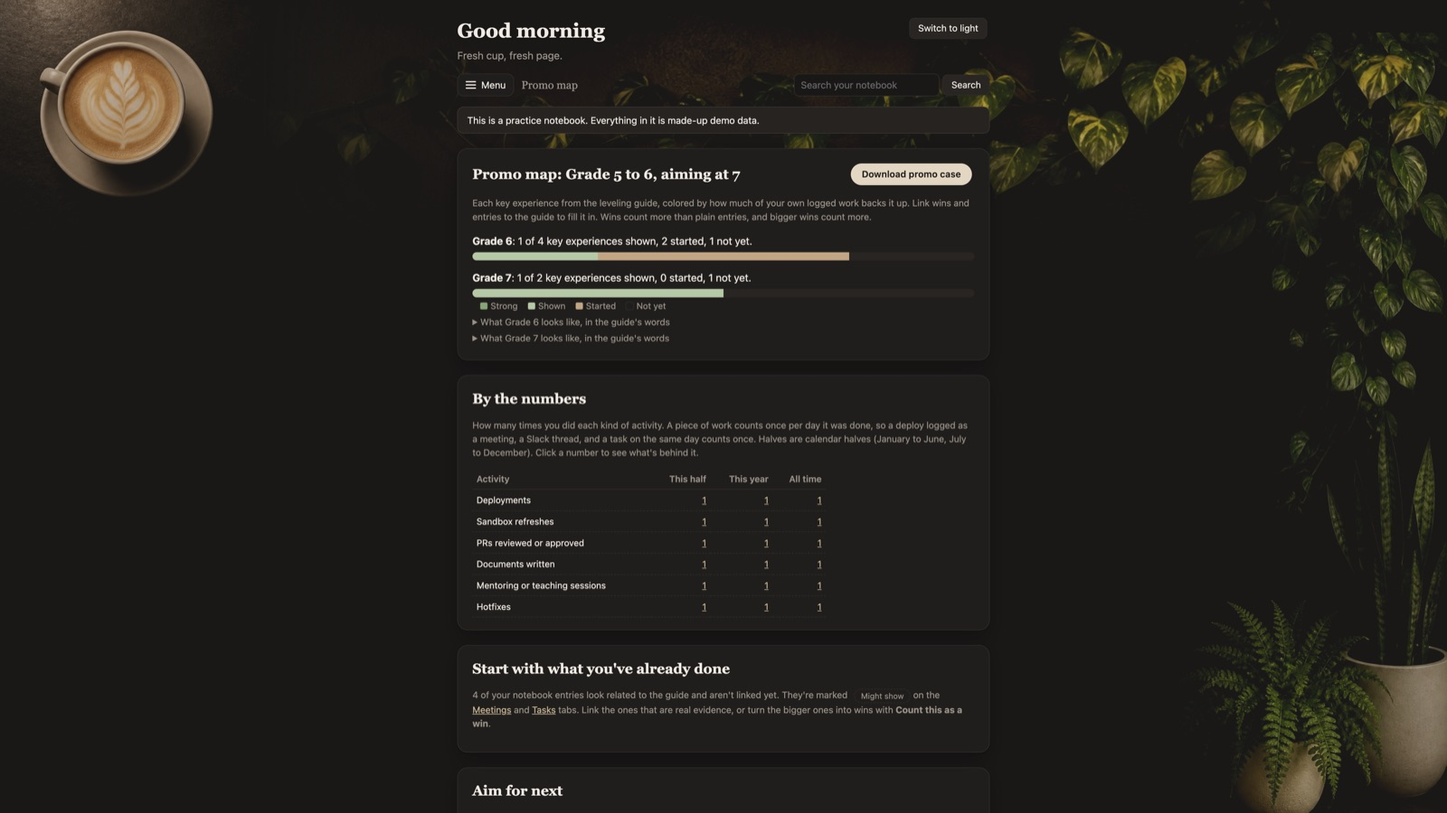
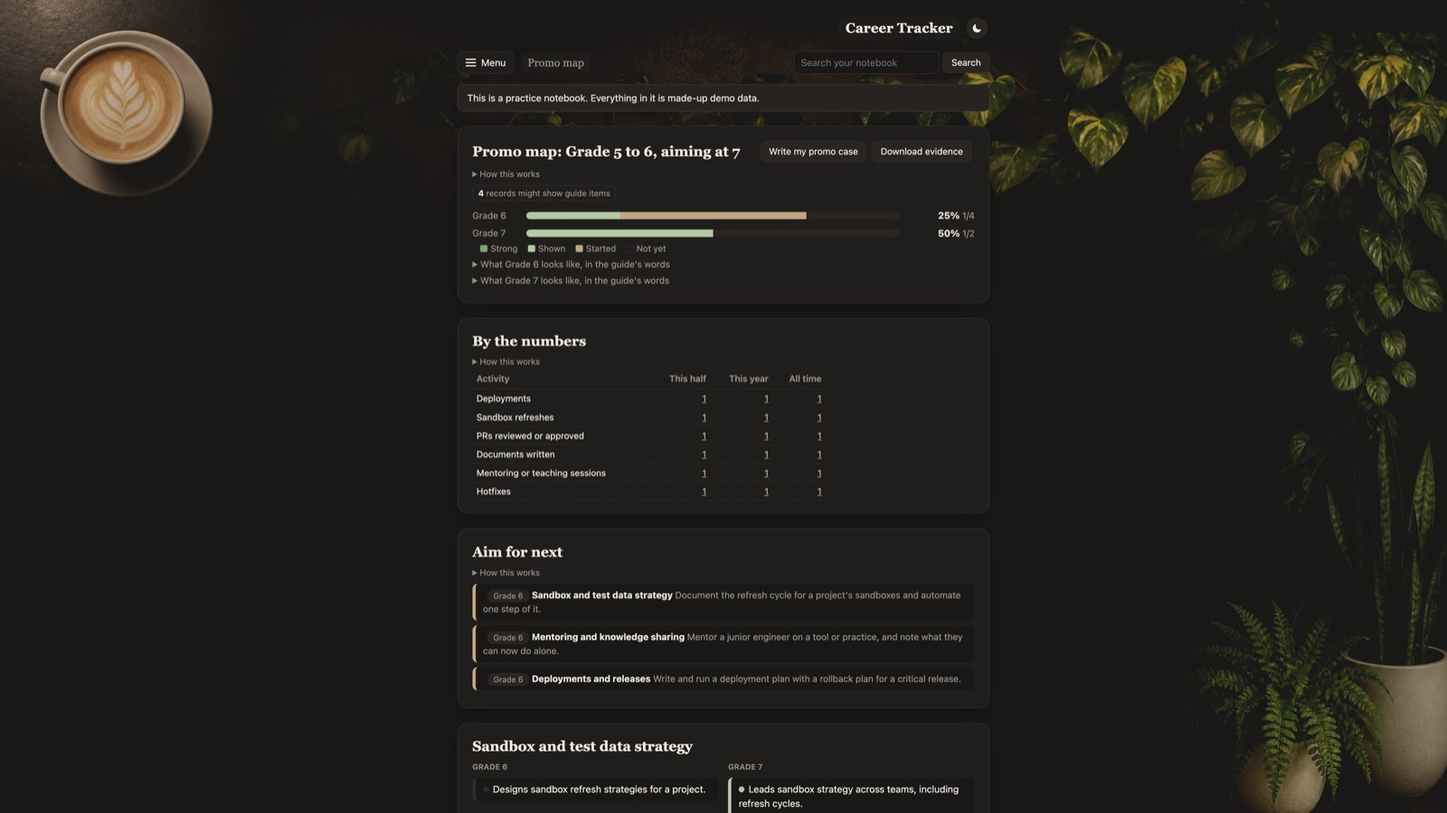
Sleek pass S5: compact Promo map and promo case, light-mode header, new README screenshots
Promo map: Home-style readiness bars, chips for unchecked AI picks and might-show records, one-line Aim for next, status
dots instead of status lines, tighter tables. Promo case: draft chips, Rewrite beside each heading, Sources folded (a
citation opens it). The app name and page label get a soft backdrop so the light-mode vine doesn't hide them. README
and INSTRUCTIONS say Career Tracker; screenshots retaken from the practice notebook. Plans the screenshot kudos import.

diff --git a/src/careeros/web/templates/promo.html b/src/careeros/web/templates/promo.html
@@ -16,19 +16,24 @@ uv run careeros guide import "guides/Leveling Guides - DevOps.csv"</pre>
 </section>
 {% else %}
 <section class="card">
-  <div class="row" style="justify-content:space-between">
-    <h2>Promo map: Grade {{ pm.current }} to {{ pm.grades[0] }}, aiming at {{ pm.grades[-1] }}</h2>
-    <div class="row"><a class="chip" href="/promo/case" style="font-size:.9rem;padding:.3rem .9rem">Write my promo case</a>
-      <form method="get" action="/promo/export"><button>Download evidence (Markdown)</button></form></div>
+  <div class="qhead"><h2>Promo map: Grade {{ pm.current }} to {{ pm.grades[0] }}, aiming at {{ pm.grades[-1] }}</h2>
+    <div class="row" style="margin-left:auto"><a class="btnlike" href="/promo/case">Write my promo case</a>
+      <form method="get" action="/promo/export"><button title="Download the evidence as Markdown">Download evidence</button></form></div>
   </div>
   {% call howto() %}<p class="muted">Each key experience from the leveling guide, colored by how much of your own logged work backs it up. Link wins and entries to the guide to fill it in. Wins count more than plain entries, and bigger wins count more.</p>{% endcall %}
-  {% if ai.links or ai.wins %}<p class="note">{{ ai.links }} guide link{{ '' if ai.links == 1 else 's' }} and {{ ai.wins }} win{{ '' if ai.wins == 1 else 's' }} on this map were picked by Claude and not checked yet. They count already. <a href="/sheet?show=ai">Check them in the Intake Review Queue</a>.</p>{% endif %}
-  {% for gr in pm.grades %}{% set p = pm.progress[gr] %}
-  <p style="margin:.9rem 0 0"><b>Grade {{ gr }}</b>: {{ p.shown + p.strong }} of {{ p.total }} key experiences shown{% if p.strong %} ({{ p.strong }} strong){% endif %}, {{ p.started }} started, {{ p.gap }} not yet.</p>
-  <div class="bar" role="img" aria-label="Grade {{ gr }}: {{ p.strong }} strong, {{ p.shown }} shown, {{ p.started }} started, {{ p.gap }} not yet">
-    {% for k in ('strong', 'shown', 'started') %}{% if p[k] %}<span class="b-{{ k }}" style="width:{{ (100 * p[k] / p.total)|round(1) }}%"></span>{% endif %}{% endfor %}
-  </div>
+  {% if ai.links or ai.wins or hints %}<div class="stats filters">
+    {% if ai.links or ai.wins %}<a href="/sheet?show=ai" class="ai" title="Picked by Claude and not checked yet. They count already."><b>{{ ai.links }}</b> AI link{{ '' if ai.links == 1 else 's' }} &middot; <b>{{ ai.wins }}</b> AI win{{ '' if ai.wins == 1 else 's' }} to check</a>{% endif %}
+    {% if hints %}<a href="/sheet?show=unlinked" title="Records that look related to the guide but aren't linked yet. Link the real evidence, or count the bigger ones as wins."><b>{{ hints }}</b> records might show guide items</a>{% endif %}
+  </div>{% endif %}
+  <div class="ready" style="margin-top:.8rem">
+  {% for gr in pm.grades %}{% set p = pm.progress[gr] %}{% set shown = p.shown + p.strong %}
+    <div class="ready-row" title="Grade {{ gr }}: {{ shown }} of {{ p.total }} key experiences shown ({{ p.strong }} strong), {{ p.started }} started, {{ p.gap }} not yet">
+      <span class="ready-label">Grade {{ gr }}</span>
+      <span class="bar" role="img" aria-label="Grade {{ gr }}: {{ p.strong }} strong, {{ p.shown }} shown, {{ p.started }} started, {{ p.gap }} not yet">{% for k in ('strong', 'shown', 'started') %}{% if p[k] %}<span class="b-{{ k }}" style="width:{{ (100 * p[k] / p.total)|round(1) }}%"></span>{% endif %}{% endfor %}</span>
+      <span class="ready-num"><b>{{ (100 * shown / p.total)|round|int if p.total else 0 }}%</b> <span class="muted">{{ shown }}/{{ p.total }}</span></span>
+    </div>
   {% endfor %}
+  </div>
   <p class="help key"><span class="b-strong"></span>Strong <span class="b-shown"></span>Shown <span class="b-started"></span>Started <span></span>Not yet</p>
   {% for gr in pm.grades %}{% if pm.summaries.get(gr) %}<details><summary>What Grade {{ gr }} looks like, in the guide's words</summary><p class="muted">{{ pm.summaries[gr] }}</p></details>{% endif %}{% endfor %}
 </section>
@@ -45,19 +50,12 @@ uv run careeros guide import "guides/Leveling Guides - DevOps.csv"</pre>
 </section>
 {% endif %}
 
-{% if hints %}
-<section class="card">
-  <h2>Start with what you've already done</h2>
-  <p class="muted">{{ hints }} of your notebook entries look related to the guide and aren't linked yet. They're marked <span class="chip hint">Might show</span> on the <a href="/meetings">Meetings</a> and <a href="/tasks">Tasks</a> tabs. Link the ones that are real evidence, or turn the bigger ones into wins with <b>Count this as a win</b>.</p>
-</section>
-{% endif %}
 {% if pm.next %}
 <section class="card">
   <h2>Aim for next</h2>
   {% call howto() %}<p class="muted">One step per topic: topics you've started come first, and a topic moves to its Grade {{ pm.grades[-1] }} step once Grade {{ pm.grades[0] }} is shown. More ideas are under each topic below.</p>{% endcall %}
   {% for n in pm.next[:6] %}
-  <div class="exp {{ 'started' if n.started }}"><span class="chip">Grade {{ n.grade }}</span> <b>{{ n.topic.name }}</b>
-    <br>{{ n.idea }}<br><span class="help">Guide: {{ n.item.name }}</span></div>
+  <div class="exp line {{ 'started' if n.started }}" title="Guide: {{ n.item.name }}"><span class="chip">Grade {{ n.grade }}</span> <b>{{ n.topic.name }}</b> <span class="muted">{{ n.idea }}</span></div>
   {% endfor %}
   {% if pm.next|length > 6 %}<p class="help">{{ pm.next|length - 6 }} more topics have a next step below.</p>{% endif %}
 </section>
@@ -67,9 +65,9 @@ uv run careeros guide import "guides/Leveling Guides - DevOps.csv"</pre>
 <section class="card">
   <h2>{{ row.topic.name }}</h2>
   <div class="grid2">
-    {% for gr in pm.grades %}<div><p class="muted" style="margin:.4rem 0 0">Grade {{ gr }}</p>
+    {% for gr in pm.grades %}<div><p class="st" style="margin:.4rem 0 0">Grade {{ gr }}</p>
       {% for x in row.cells[gr] %}
-      <div class="exp {{ x.status }}"><span class="st">{{ x.status_label }}</span><br>{{ x.item.name }}{{ evidence(x) }}</div>
+      <div class="exp {{ x.status }}"><span class="st" title="{{ x.status_label }}"><i></i><span class="sr">{{ x.status_label }}: </span></span>{{ x.item.name }}{{ evidence(x) }}</div>
       {% else %}<p class="help">The guide has nothing for this at Grade {{ gr }}.</p>{% endfor %}
     </div>{% endfor %}
   </div>
@@ -79,15 +77,14 @@ uv run careeros guide import "guides/Leveling Guides - DevOps.csv"</pre>
 
 <section class="card">
   <h2>Skills where Grade {{ pm.grades[-1] }} asks for more</h2>
-  {% call howto() %}<p class="muted">The guide rates each skill from 1 to 4. These are the ones whose bar goes up between Grade {{ pm.grades[0] }} and Grade {{ pm.grades[-1] }}. Link wins to them to show you're already working at the higher level.</p>{% endcall %}
+  {% call howto() %}<p class="muted">The guide rates each skill from 1 to 4; the numbers after each name are Grade {{ pm.current }} &rarr; Grade {{ pm.grades[0] }} &rarr; Grade {{ pm.grades[-1] }}. These are the ones whose bar goes up between Grade {{ pm.grades[0] }} and Grade {{ pm.grades[-1] }}. Hover over one for its description. Link wins to them to show you're already working at the higher level.</p>{% endcall %}
   {% for x in pm.rising %}
-  <div class="exp {{ x.status }}"><span class="st">{{ x.status_label }}</span><br><b>{{ x.item.name }}</b>
-    <span class="muted">Grade {{ pm.current }}: {{ x.now }} &middot; Grade {{ pm.grades[0] }}: {{ x['g' ~ pm.grades[0]] }} &middot; Grade {{ pm.grades[-1] }}: {{ x['g' ~ pm.grades[-1]] }}</span>
-    <br><span class="help">{{ x.item.description }}</span>{{ evidence(x) }}</div>
+  <div class="exp {{ x.status }}" title="{{ x.item.description }}"><span class="st" title="{{ x.status_label }}"><i></i><span class="sr">{{ x.status_label }}: </span></span><b>{{ x.item.name }}</b>
+    <span class="muted">{{ x.now }} &rarr; {{ x['g' ~ pm.grades[0]] }} &rarr; {{ x['g' ~ pm.grades[-1]] }}</span>{{ evidence(x) }}</div>
   {% endfor %}
   <details><summary>Other skills ({{ pm.steady|length }}), same bar at both grades</summary>
-    {% for x in pm.steady %}<div class="exp {{ x.status }}"><span class="st">{{ x.status_label }}</span><br><b>{{ x.item.name }}</b>
-      <span class="muted">Grade {{ pm.grades[0] }} and {{ pm.grades[-1] }}: {{ x['g' ~ pm.grades[0]] }}</span>{{ evidence(x) }}</div>{% endfor %}
+    {% for x in pm.steady %}<div class="exp {{ x.status }}" title="{{ x.item.description }}"><span class="st" title="{{ x.status_label }}"><i></i><span class="sr">{{ x.status_label }}: </span></span><b>{{ x.item.name }}</b>
+      <span class="muted">{{ x['g' ~ pm.grades[0]] }}</span>{{ evidence(x) }}</div>{% endfor %}
   </details>
 </section>
 {% endif %}

diff --git a/src/careeros/web/templates/promo_case.html b/src/careeros/web/templates/promo_case.html
@@ -21,9 +21,12 @@
 {% if v.id != latest %}<div class="note">You're looking at draft {{ v.id }}. <a href="/promo/case/{{ latest }}">The newest is draft {{ latest }}</a>.</div>{% endif %}
 <section class="card">
   <h2>Promotion case: {{ v.name }}</h2>
-  <p class="muted">Draft {{ v.id }}{% if v.note %} ({{ v.note|lower }}){% endif %}, {{ v.created_at.strftime('%b %-d, %Y at %-I:%M %p') }}, from work between {{ v.window_start }} and {{ v.window_end }}.
-    {% if flagged %}<b>{{ flagged }} sentence{{ '' if flagged == 1 else 's' }} to check</b> before you use it.{% else %}Every sentence has a source.{% endif %}
-    It's a draft: read it, fix it, and make it yours. Every edit or rewrite saves a new draft, so nothing is lost.</p>
+  <div class="stats">
+    <span title="{{ v.created_at.strftime('%b %-d, %Y at %-I:%M %p') }}"><b>Draft {{ v.id }}</b>{% if v.note %} &middot; {{ v.note|lower }}{% endif %} &middot; {{ v.created_at.date()|short_day }}</span>
+    <span title="The work this draft is written from">{{ v.window_start|short_day }} to {{ v.window_end|short_day }}</span>
+    {% if flagged %}<a href="#sec-{{ sections[0].key if sections else '' }}" class="late-stat"><b>{{ flagged }}</b> to check</a>{% else %}<span class="ok-stat">every sentence sourced</span>{% endif %}
+  </div>
+  {% call howto("About drafts") %}<p class="help">It's a draft: read it, fix it, and make it yours. Every edit or rewrite saves a new draft, so nothing is lost. A sentence with no source, or with a number that isn't in your evidence, is marked <span class="check">Check this</span>.</p>{% endcall %}
   {% if personal %}<form method="post" action="/promo/case/{{ v.id }}/gdoc" data-sync="promo" class="row">
     <input type="hidden" name="csrf" value="{{ csrf }}">
     <button data-label="Send to Google Docs">Send to Google Docs</button>
@@ -44,7 +47,11 @@
 </section>
 {% for sec in sections %}
 <section class="card" id="sec-{{ sec.key }}">
-  <h2>{{ sec.heading }}{% if sec.edited %} <span class="chip guide">edited by you</span>{% endif %}</h2>
+  <div class="qhead"><h2>{{ sec.heading }}</h2>{% if sec.edited %}<span class="chip guide">edited by you</span>{% endif %}
+    {% if personal %}<form method="post" action="/promo/case/{{ v.id }}/rewrite/{{ sec.key }}" data-sync="promo" class="row" style="margin-left:auto">
+      <input type="hidden" name="csrf" value="{{ csrf }}">
+      {% if sec.edited %}<label class="help"><input type="checkbox" name="confirm" value="yes"> Replace my edits</label>{% endif %}
+      <button data-label="Rewrite" title="Have Claude rewrite this section (saved as a new draft)">Rewrite</button></form>{% endif %}</div>
   {% if sec.error %}<p class="muted">{{ sec.error }}</p>{% endif %}
   <p class="case">{% for x in sec.sentences %}<span class="{{ '' if x.valid else 'check' }}"{% if not x.valid %} title="Check this: {{ x.reason }}"{% endif %}>{% if not x.valid %}<b class="check-tag">Check this ({{ x.reason }}):</b> {% endif %}{{ x.text }}{% for n in x.sources %}<a class="cite" href="#src-{{ n }}">[{{ n }}]</a>{% endfor %}</span> {% endfor %}</p>
   <details><summary>Edit</summary>
@@ -54,16 +61,12 @@
       <textarea name="text" maxlength="20000" aria-label="Edit {{ sec.heading }}">{{ texts[sec.key] }}</textarea>
       <div><button class="primary">Save as a new draft</button></div></form>
   </details>
-  {% if personal %}<form method="post" action="/promo/case/{{ v.id }}/rewrite/{{ sec.key }}" data-sync="promo" class="row">
-    <input type="hidden" name="csrf" value="{{ csrf }}">
-    {% if sec.edited %}<label class="help"><input type="checkbox" name="confirm" value="yes"> Replace my edits</label>{% endif %}
-    <button data-label="Rewrite this section">Rewrite this section</button></form>{% endif %}
 </section>
 {% endfor %}
 <section class="card">
-  <h2>Sources</h2>
-  {% call howto() %}<p class="help">What each [number] in the draft points to, as it was when the draft was written.</p>{% endcall %}
-  <ol class="sources">{% for p in sources %}<li id="src-{{ p.n }}" value="{{ p.n }}">{{ p.text }}</li>{% endfor %}</ol>
+  <details class="sources-d"><summary><h2 style="display:inline">Sources ({{ sources|length }})</h2></summary>
+    <p class="help">What each [number] in the draft points to, as it was when the draft was written.</p>
+    <ol class="sources">{% for p in sources %}<li id="src-{{ p.n }}" value="{{ p.n }}">{{ p.text }}</li>{% endfor %}</ol></details>
 </section>
 {% endif %}
 <script src="/static/sync.js" defer></script>

diff --git a/src/careeros/web/templates/base.html b/src/careeros/web/templates/base.html
@@ -47,7 +47,9 @@ h1,h2,h3{font-family:Georgia,'Iowan Old Style',serif;font-weight:600;margin:0}
 h1{font-size:1.9rem}h2{font-size:1.35rem}
 h3{font-size:1.02rem;color:var(--muted);margin:1.4rem 0 .3rem;letter-spacing:.01em}
 .top{display:flex;justify-content:flex-end;align-items:center;gap:.6rem}
-.brand{font-family:Georgia,'Iowan Old Style',serif;font-size:1.3rem;font-weight:600;color:var(--text);text-decoration:none;letter-spacing:.01em}
+.brand{font-family:Georgia,'Iowan Old Style',serif;font-size:1.3rem;font-weight:600;color:var(--text);text-decoration:none;letter-spacing:.01em;
+  background:color-mix(in srgb,var(--card) 82%,transparent);border-radius:12px;padding:.15rem .7rem;-webkit-backdrop-filter:blur(6px);backdrop-filter:blur(6px)}
+nav .here{background:color-mix(in srgb,var(--card) 82%,transparent);border-radius:10px;padding:.1rem .6rem;-webkit-backdrop-filter:blur(6px);backdrop-filter:blur(6px)}
 button.icon{width:2rem;height:2rem;padding:0;border-radius:50%;font-size:1rem;line-height:1}
 .dash h2{margin-bottom:.6rem}.ready{display:grid;gap:.35rem}
 .ready-row{display:grid;grid-template-columns:4.5rem 1fr 6.5rem;gap:.7rem;align-items:center;color:var(--text);text-decoration:none}
@@ -61,6 +63,13 @@ button.icon{width:2rem;height:2rem;padding:0;border-radius:50%;font-size:1rem;li
 .momentum rect{fill:var(--st-shown)}.momentum rect.now{fill:var(--st-strong)}
 p.next{margin:.8rem 0 0;font-size:.9rem;border-top:1px dashed var(--line);padding-top:.6rem}
 .howto{margin:.35rem 0 0}
+.stats .late-stat{border-color:var(--st-started);color:var(--text);text-decoration:none}.stats .ok-stat{border-color:var(--st-strong)}
+.sources-d>summary{cursor:pointer}
+.exp{padding:.35rem .6rem;margin:.3rem 0}.exp .st{display:inline-flex;vertical-align:.05rem;margin-right:.4rem}
+.exp .st i{display:inline-block;width:.55rem;height:.55rem;border-radius:50%;background:var(--line)}
+.exp.strong .st i{background:var(--st-strong)}.exp.shown .st i{background:var(--st-shown)}.exp.started .st i{background:var(--st-started)}
+.exp details{margin:.15rem 0 0}.exp details>summary{font-size:.78rem}.exp.line{font-size:.88rem}
+table.sheet td{padding:.22rem .4rem}a.btnlike{color:var(--text);text-decoration:none}
 .stats.filters a{border:1px solid var(--line);border-radius:6px;padding:.05rem .5rem;color:var(--muted);text-decoration:none}
 .stats.filters a.on{border-color:var(--accent);color:var(--text)}.stats.filters a.late{border-color:var(--st-started)}
 .chip.late{background:transparent;border:1px solid var(--st-started);color:var(--st-started)}

diff --git a/src/careeros/web/static/page.js b/src/careeros/web/static/page.js
@@ -15,3 +15,12 @@ document.addEventListener("toggle", (ev) => {
 document.addEventListener("keydown", (ev) => {
   if (ev.key === "Escape") document.querySelectorAll("details.act[open]").forEach((d) => { d.open = false; });
 });
+
+// A citation like [3] points into the folded Sources list: open it so the browser can scroll to the source.
+function openTarget() {
+  const el = location.hash && document.getElementById(location.hash.slice(1));
+  const box = el && el.closest("details");
+  if (box && !box.open) { box.open = true; el.scrollIntoView({block: "center"}); }
+}
+window.addEventListener("hashchange", openTarget);
+openTarget();

diff --git a/tests/test_shell.py b/tests/test_shell.py
@@ -32,3 +32,18 @@ def test_short_day():
     this_year = date.today().year
     assert short_day(f"{this_year}-10-29") == "Oct 29"
     assert short_day(date(this_year - 1, 3, 5)) == f"Mar 5, {this_year - 1}"
+
+
+def test_promo_map_is_compact(nb):
+    from datetime import datetime
+    from careeros.storage.models import JournalEntry
+    from test_guide import session
+    dd, c, *_ = nb
+    with session(dd) as s:
+        s.add(JournalEntry(day="2026-10-20", kind="meeting", text="Demo of the pipeline to the customer",
+                           created_at=datetime.now()))
+        s.commit()
+    html = c.get("/promo").text
+    assert 'href="/sheet?show=unlinked"' in html and "records might show guide items" in html
+    assert "Start with what you've already done" not in html
+    assert 'class="ready-row"' in html and html.count('<span class="st" title=') >= 6

diff --git a/tests/test_promo_writer.py b/tests/test_promo_writer.py
@@ -1,5 +1,6 @@
 """Claude writes the promotion case from numbered evidence; the app checks every sentence (fake Claude)."""
 import json
+import re
 import time
 from datetime import date, datetime
 
@@ -106,7 +107,7 @@ def test_write_button_shows_the_draft_with_sources(nb, monkeypatch):
     page = c.get("/promo/case").text
     assert "Promotion case: Jordan" in page and "&lt;b&gt;for four teams" in page and "<b>for four teams" not in page
     assert 'href="#src-' in page and 'id="src-' in page and "Check this (40 isn" in page
-    assert "sentences to check" in page
+    assert re.search(r"<b>\d+</b> to check", page) and '<details class="sources-d">' in page
     assert c.get("/promo/case/999").status_code == 404
     assert c.post("/promo/write", data={"csrf": "nope"}).status_code == 403
     assert pw.load_name(dd) == "Jordan"

diff --git a/tests/test_guide.py b/tests/test_guide.py
@@ -101,7 +101,8 @@ def test_win_flow_suggests_then_saves_only_what_user_confirms(nb):
     assert f'value="{sandbox[6]}" checked' in page and f'value="{sandbox[7]}" checked' not in page
 
     promo = c.get("/promo").text
-    assert "Grade 6</b>: 1 of 3 key experiences shown" in promo and "Grade 7</b>: 0 of 3" in promo
+    assert 'title="Grade 6: 1 of 3 key experiences shown' in promo and 'title="Grade 7: 0 of 3' in promo
+    assert "<b>33%</b> <span class=\"muted\">1/3</span>" in promo
     assert "Automated the sandbox refresh for UAT" in promo and "Aim for next" in promo
     md = c.get("/promo/export")
     assert md.headers["content-type"].startswith("text/markdown")

diff --git a/tests/test_promo_editing.py b/tests/test_promo_editing.py
@@ -64,7 +64,7 @@ def test_pages_edit_rewrite_confirm_and_compare(nb, monkeypatch):
     with session(dd) as s:
         vid = draft(s).id
     page = c.get("/promo/case").text
-    assert "Rewrite this section" in page and "Save as a new draft" in page and "[" in page
+    assert 'data-label="Rewrite"' in page and "Save as a new draft" in page and "[" in page
     r = form(c, f"/promo/case/{vid}/edit/summary", token, text="Jordan is ready for Grade 6.")
     assert r.status_code == 303 and r.headers["location"].endswith("#sec-summary")
     with session(dd) as s:

diff --git a/INSTRUCTIONS.md b/INSTRUCTIONS.md
@@ -1,10 +1,10 @@
-# Career OS: How to use it
+# Career Tracker: How to use it
 
 Plain-language notes on running and testing the app. New questions and answers get added at the bottom under **Q&A**. For what the app *is*, see [README.md](README.md).
 
 ## Where things stand
 
-Career OS is your work notebook. It pulls in your Google Calendar meetings, Google Tasks, and Slack tracker items, has Claude sort each one and link it to the DevOps leveling guide, and keeps your wins so the Promo map and promo case reflect what you've actually done. Everything is stored on this laptop. The only things that send anything out are the Sync buttons and the Claude review (see the README for what Claude sees).
+Career Tracker is your work notebook. It pulls in your Google Calendar meetings, Google Tasks, and Slack tracker items, has Claude sort each one and link it to the DevOps leveling guide, and keeps your wins so the Promo map and promo case reflect what you've actually done. Everything is stored on this laptop. The only things that send anything out are the Sync buttons and the Claude review (see the README for what Claude sees).
 
 There's also a **practice notebook** of made-up data, for trying things out without touching your real one.
 
@@ -81,16 +81,18 @@ Links you've made are kept. Anything the new guide drops leaves the map but stay
 
 **The Promo map tab.** It shows:
 
-- A progress bar for Grade 6 and for Grade 7 (how many key experiences you've shown).
-- **Aim for next**: one concrete step per topic. Topics you've started come first, and a topic moves to its Grade 7 step once Grade 6 is shown.
-- The 12 topics, each with the Grade 6 experiences beside the Grade 7 ones. Each is colored **Not yet**, **Started**, **Shown**, or **Strong**, with **Ideas to get here** underneath.
-- The skills whose bar rises from Grade 6 to Grade 7, with your evidence for each.
+- A progress bar for Grade 6 and for Grade 7 with the percent shown (hover for the strong/started/not-yet detail), plus chips for Claude's unchecked picks and for records that might show guide items (each opens the right list in the Intake Review Queue).
+- **Aim for next**: one concrete step per topic, one line each (hover for the guide item). Topics you've started come first, and a topic moves to its Grade 7 step once Grade 6 is shown.
+- The 12 topics, each with the Grade 6 experiences beside the Grade 7 ones. Each has a colored dot and edge for **Not yet**, **Started**, **Shown**, or **Strong** (hover the dot for the word), with **Ideas to get here** underneath.
+- The skills whose bar rises from Grade 6 to Grade 7, with the guide's rating as Grade 5 → 6 → 7 (hover a skill for its description) and your evidence for each.
 
 Colors come from points. A linked entry is worth 1, and a small, medium, or large win is worth 2, 3, or 4. One point makes an item Started, 3 make it Shown, and 6 make it Strong. So one large win shows an experience, and a large win plus a medium one makes it strong. An entry and the win made from it only count once.
 
 **Write my promo case** (on the Promo map, or at http://127.0.0.1:8765/promo/case) has Claude draft the case itself. Pick who it's about (your first name, remembered for next time) and the window (the last 12 months by default), then press the button; it takes a minute or two, with progress per section. The draft has five sections: **Summary, Key accomplishments, Impact, Behaviors & values, Growth areas**, written in the third person. Claude writes them only from your notebook: wins and why they mattered, pieces of work, linked records, the impact numbers, and the Promo map's gaps and next steps, all dated inside the window. Every sentence ends with small [numbers] that jump to its sources, listed at the bottom as they were when the draft was written. The app then checks each sentence itself: one with no source, or with a number that doesn't appear in its evidence, is marked **Check this** with the reason. The check catches invented numbers and missing sources, not every wrong word, so read the draft before you use it. Every draft is kept. From Terminal: `uv run careeros promo write` (with `--start`, `--end`, `--name`).
 
-**Editing and rewriting a draft.** Under each section, **Edit** opens it as plain text, one sentence per line, with its sources as [numbers] at the end of the line: keep a number to keep that source, and your wording is checked the same way as Claude's. **Rewrite this section** has Claude redo just that section from the same evidence; if you've edited it, tick **Replace my edits** first. Either way the result is saved as a **new draft**, so nothing is ever overwritten. **All drafts and compare** lists every draft with what changed ("Edited Impact", "Rewrote Growth areas") and shows any two side by side: struck-through sentences are only in the first, underlined ones only in the second. Viewing an older draft shows a link to the newest.
+**Reading a draft.** The top of a draft shows chips for its number and date, the window it's written from, and how many sentences to check (or "every sentence sourced"). The **Sources** list at the bottom is folded; clicking any [number] in the draft opens it at that source.
+
+**Editing and rewriting a draft.** Under each section, **Edit** opens it as plain text, one sentence per line, with its sources as [numbers] at the end of the line: keep a number to keep that source, and your wording is checked the same way as Claude's. **Rewrite** (beside the section's heading) has Claude redo just that section from the same evidence; if you've edited it, tick **Replace my edits** first. Either way the result is saved as a **new draft**, so nothing is ever overwritten. **All drafts and compare** lists every draft with what changed ("Edited Impact", "Rewrote Growth areas") and shows any two side by side: struck-through sentences are only in the first, underlined ones only in the second. Viewing an older draft shows a link to the newest.
 
 **Sending a draft to Google Docs.** On a draft, **Send to Google Docs** makes two Docs in My Drive: one with the [numbers], the **Check this** notes, and a Sources list (for you), and a clean copy without them (for sharing). Fix any **Check this** sentences first if you're sharing, since the clean copy includes them without the warning. The draft passes through the AI tool on its way to Google (the Google connector can't read files on this laptop), so the app reads each new Doc back and compares its words with the draft: a step that doesn't match shows an error, and its link is still saved so you can look. Links to both Docs appear on the draft, and a copy of what was sent is kept in `exports/` in the notebook folder.
 
@@ -278,7 +280,7 @@ cd ~/Documents/career-os
 uv run pytest
 ```
 
-You should see `153 passed`. A failure means something broke. Don't use the app until it's fixed.
+You should see `154 passed`. A failure means something broke. Don't use the app until it's fixed.
 
 ## What comes next
 

diff --git a/README.md b/README.md
@@ -1,11 +1,11 @@
-<h1 align="center">Career OS</h1>
+<h1 align="center">Career Tracker</h1>
 
 <p align="center">
   <em>You were hired to do the work, not to write essays about the work.</em>
 </p>
 
 <p align="center">
-  <img src="docs/img/today.jpg" width="880" alt="The Today page: a coffee-shop notebook with a latte in the corner, house plants down the side, a quick entry row, and the day's records from Slack, calendar, and tasks.">
+  <img src="docs/img/home.jpg" width="880" alt="Career Tracker's Home page in dark mode: a latte in the corner, house plants down the side, and one card with Grade 6 and Grade 7 readiness bars, tiles for skills, wins, kudos and records to check, a 12-week evidence chart, and the next step.">
 </p>
 
 ---
@@ -14,7 +14,7 @@ Every year it's the same ritual. Promotion season opens, and a perfectly product
 
 Two weeks later there's a promotion case and nothing got deployed. That's backwards.
 
-**Career OS keeps the receipts so you don't have to.** It quietly collects what you actually did (meetings, Slack threads, tasks, the 9 PM hotfix), sorts it against your leveling guide, and keeps a running tally of the evidence. When it's time to make the case, the case is mostly already made.
+**Career Tracker keeps the receipts so you don't have to.** It quietly collects what you actually did (meetings, Slack threads, tasks, the 9 PM hotfix), sorts it against your leveling guide, and keeps a running tally of the evidence. When it's time to make the case, the case is mostly already made.
 
 You go back to doing the job. Which, conveniently, is also the best evidence for the promotion.
 
@@ -27,7 +27,7 @@ You go back to doing the job. Which, conveniently, is also the best evidence for
 5. **Writes the case.** Press **Write my promo case** and Claude drafts it (Summary, Key accomplishments, Impact, Behaviors & values, Growth areas) from your own evidence, with a little [3] after every sentence pointing to where it came from. The app double-checks each sentence: no source, or a number that isn't in your data, and it's flagged **Check this**. Your manager can't fact-check you harder than this. Then edit it in place or have Claude rewrite one section; every change is a new draft you can compare. When it's ready, **Send to Google Docs** makes a copy with sources for you and a clean one for your manager.
 
 <p align="center">
-  <img src="docs/img/promo-map.jpg" width="880" alt="The Promo map: progress bars for Grade 6 and Grade 7 key experiences, and a By the numbers table counting deployments, sandbox refreshes, PR reviews, documents, mentoring sessions, and hotfixes.">
+  <img src="docs/img/promo-map.jpg" width="880" alt="The Promo map: compact Grade 6 and Grade 7 readiness bars, a By the numbers table of activity counts, and one-line Aim for next steps.">
 </p>
 
 <p align="center"><sub>Both screenshots are the practice notebook: made-up records, a made-up release called "Pine," and zero real people. It's going to keep changing; the coffee stays.</sub></p>
@@ -61,8 +61,8 @@ uv run careeros serve --data-dir /tmp/cos-demo
 
 There isn't one. That's the point. But if you're the type who likes to check:
 
-- **Morning:** glance at the **Intake Review Queue**. Green dots mean everything's in. Click **Looks right** on what's right, fix what isn't, **Remove** the meeting you didn't actually attend.
-- **When something big happens:** **Count this as a win**, and write one sentence on why it mattered while you still remember.
+- **Morning:** glance at **Home** (how close the promotion is), then the **Intake Review Queue**. Green dots mean everything's in. Click **Looks right** on what's right, fix what isn't, **Remove** the meeting you didn't actually attend.
+- **When something big happens:** press the trophy on the record (**Count this as a win**), and write one sentence on why it mattered while you still remember.
 - **Promotion season:** open the Promo map, click **Write my promo case**, read what comes back, fix the bits marked **Check this**, and enjoy the unfamiliar feeling of being early.
 
 ## Your data and Claude

diff --git a/IMPLEMENTATION_PLAN.md b/IMPLEMENTATION_PLAN.md
@@ -321,6 +321,12 @@ All three add records with `source` set to `github`, `docs` or `releases`, an `e
 
 **Order:** S1 first (everything else uses its macro and filter), then S2, then S3, S4, and S5 in any order.
 
+### After the sleek pass: kudos from screenshots — `feature/kudos-screenshots`
+A folder of saved Slack kudos screenshots, some of which may already be in the notebook. Claude Code can read images, so:
+- `careeros kudos import <folder>` hands each image to Claude (with only the `Read` tool, limited to that folder), which returns who said it, the channel, the date, and a short word-for-word quote. Nothing but that text is kept, and the images aren't copied.
+- Duplicates of kudos already in the notebook (same person, same day, and an overlapping quote) are skipped; the rest come in as kudos records marked "from a screenshot", so they count like a medium win and go through the queue like any other record.
+- **Answer first:** where the folder is; whether the screenshots may hold DMs (if so, the earlier "never DMs" choice means skipping those, or making an exception for screenshots you saved yourself).
+
 ---
 
 ## Not in this plan
